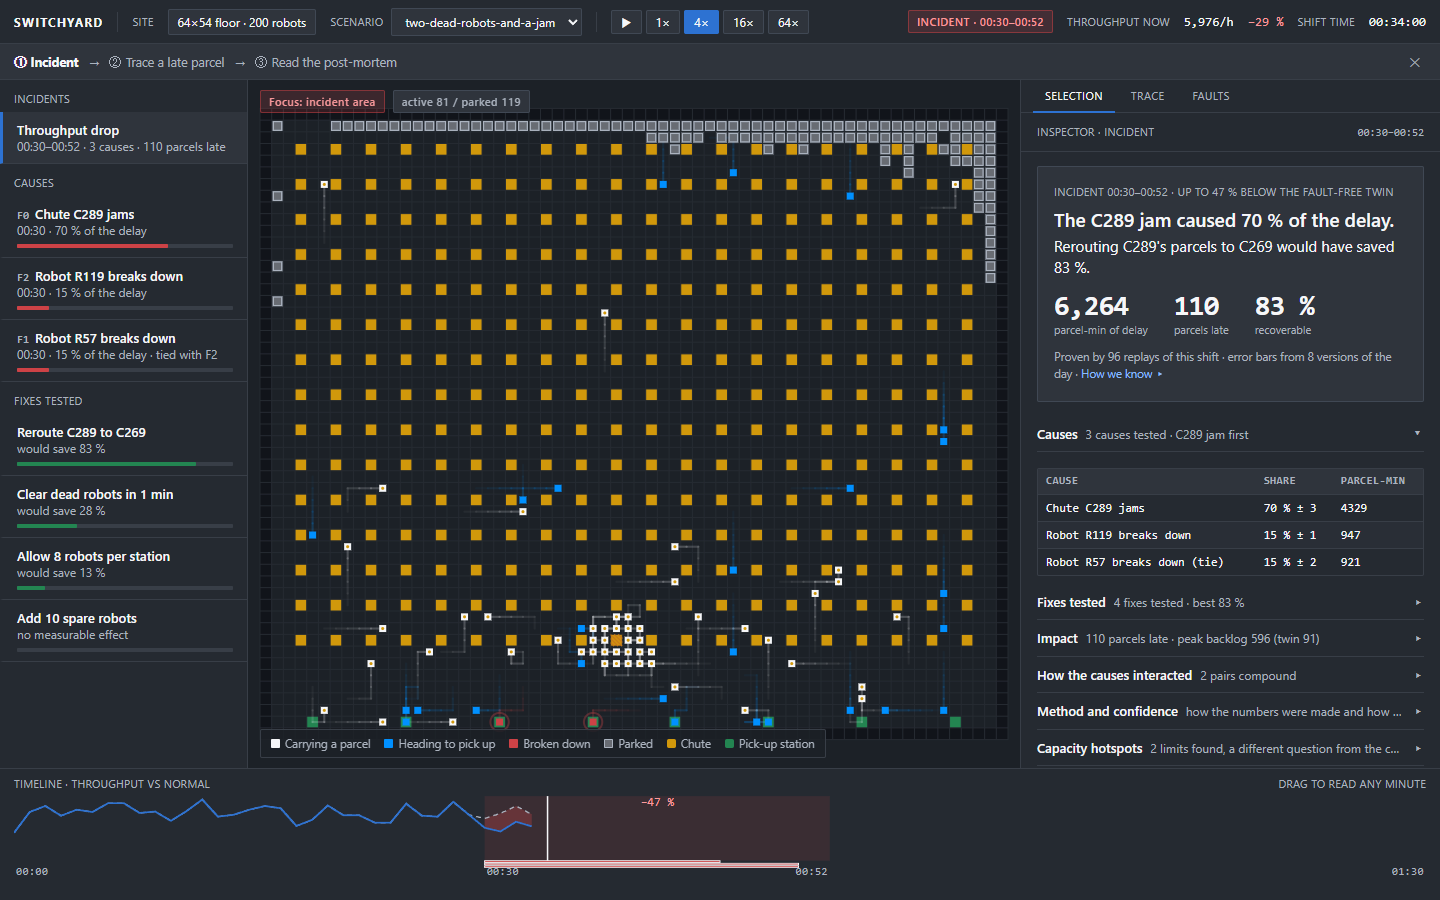
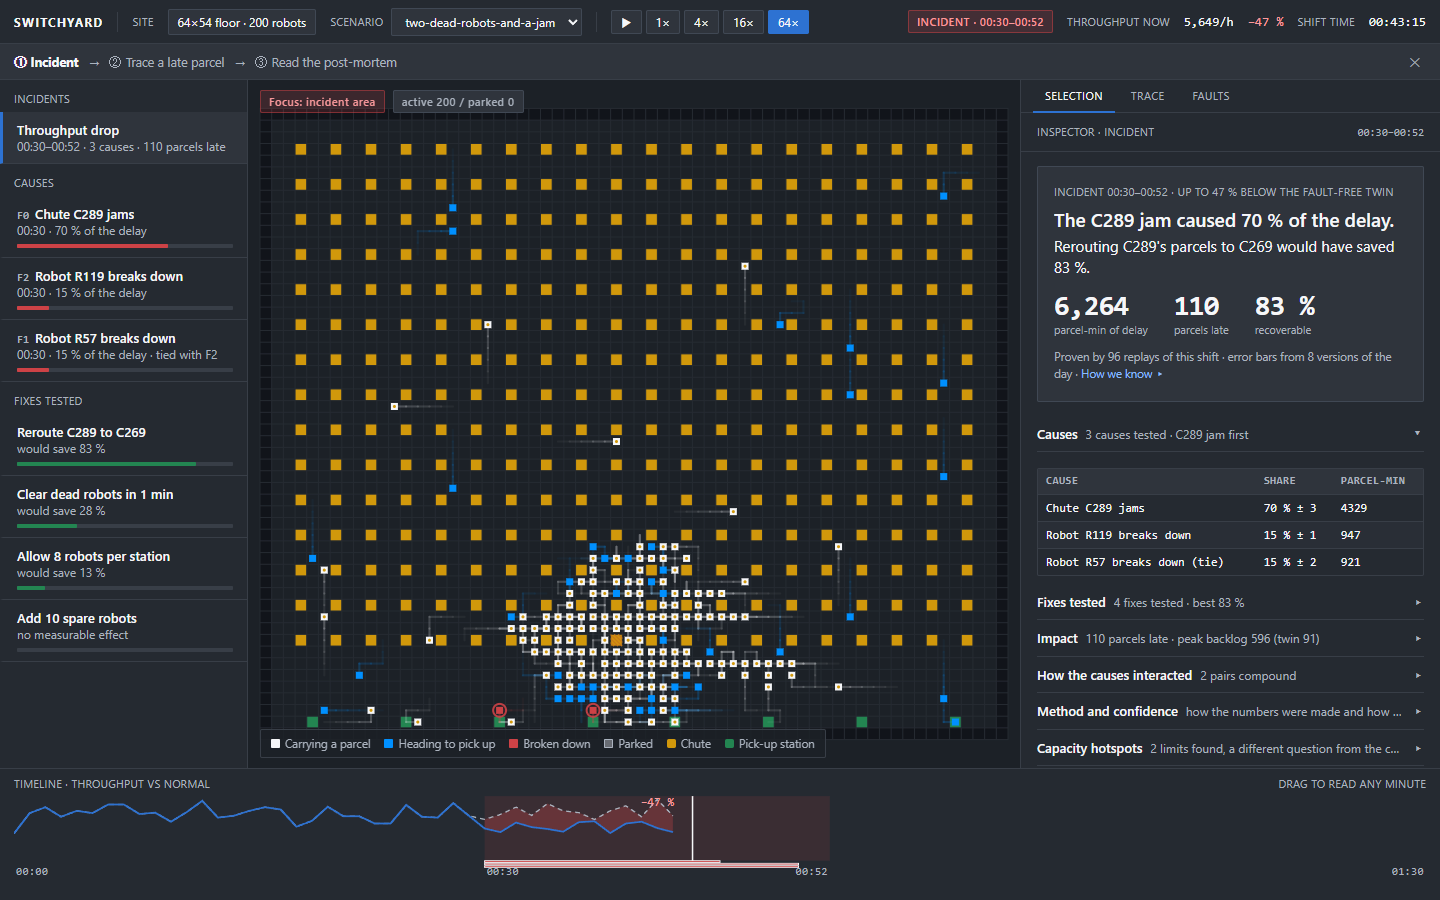
fix: pause the guided run at the report's worst minute so chip and card agree (review finding 2 on #48)
Also 64x after the jam moment: the run now takes about 22 s end to end.

diff --git a/viewer/src/ui/console/guidedRun.ts b/viewer/src/ui/console/guidedRun.ts
@@ -1,7 +1,7 @@
 /** Pure logic for the first-run guided sequence: how fast to play, and when the incident is at its deepest. */
 import type { MetricsSeries } from "../../data/types";
 
-export type GuideSpeed = 1 | 4 | 16;
+export type GuideSpeed = 1 | 4 | 64;
 
 /** Ticks of lead-in the run is fast-forwarded to before the incident starts. */
 export const LEAD_IN_TICKS = 30;
@@ -13,37 +13,23 @@ export function jumpTarget(incidentStartMin: number, ticksPerMinute: number): nu
 
 /**
  * Speed by sim tick, after the jump. 4x into the incident, 1x for its first 10 ticks (5 s) so the jam and
- * the failures are seen happening, then 16x down to the deepest point (real time would take minutes).
+ * the failures are seen happening, then 64x down to the deepest point (real time would take minutes).
  */
 export function speedAt(tick: number, incidentStartMin: number, ticksPerMinute: number): GuideSpeed {
   const rel = tick - incidentStartMin * ticksPerMinute;
   if (rel < 0) return 4;
   if (rel < 10) return 1;
-  return 16;
+  return 64;
 }
 
 /**
- * The shift minute with the largest loss against the fault-free twin, once the series shows the loss
- * easing again (so it is known to be the deepest), else null. Only finished minutes count; the last entry
- * is still in progress.
+ * True once the latest finished minute is at least as far below the fault-free twin as the report's
+ * worst minute (`dipPct`, whole %), so the top-bar chip and the incident card quote the same figure.
  */
-export function deepestMinute(series: MetricsSeries, incidentStartMin: number): number | null {
-  const twin = series.twin;
-  if (!twin) return null;
-  let best: { minute: number; delta: number } | null = null;
-  let eased = false;
-  for (let i = 0; i < series.delivered.length - 1; i++) {
-    const minute = series.startMinute + i;
-    const a = series.delivered[i];
-    const t = twin[i];
-    if (minute < incidentStartMin || a === undefined || t === undefined) continue;
-    const delta = a - t;
-    if (best === null || delta < best.delta) {
-      best = { minute, delta };
-      eased = false;
-    } else if (delta > best.delta) {
-      eased = true;
-    }
-  }
-  return best !== null && best.delta < 0 && eased ? best.minute : null;
+export function reachedDip(series: MetricsSeries, dipPct: number): boolean {
+  const i = series.delivered.length - 2; // the last entry is the minute still in progress
+  const twin = series.twin?.[i];
+  const actual = series.delivered[i];
+  if (i < 0 || twin === undefined || actual === undefined || twin <= 0) return false;
+  return Math.round((1 - actual / twin) * 100) >= dipPct;
 }

diff --git a/viewer/src/ui/console/guidedRun.test.ts b/viewer/src/ui/console/guidedRun.test.ts
@@ -1,29 +1,24 @@
 import { describe, expect, it } from "vitest";
-import { deepestMinute, jumpTarget, speedAt } from "./guidedRun";
+import { jumpTarget, reachedDip, speedAt } from "./guidedRun";
 import type { MetricsSeries } from "../../data/types";
 
 const T = 120;
 const series = (delivered: number[], twin: number[], startMinute = 28): MetricsSeries => ({ ticksPerMinute: T, startMinute, delivered, twin, faults: [] });
 
 describe("speedAt and jumpTarget", () => {
-  it("jumps to just before the incident, then 4x, 1x at the jam, 16x", () => {
+  it("jumps to just before the incident, then 4x, 1x at the jam, 64x", () => {
     expect(jumpTarget(30, T)).toBe(30 * T - 30);
     expect(speedAt(30 * T - 30, 30, T)).toBe(4);
     expect(speedAt(30 * T + 5, 30, T)).toBe(1);
-    expect(speedAt(30 * T + 10, 30, T)).toBe(16);
+    expect(speedAt(30 * T + 10, 30, T)).toBe(64);
   });
 });
 
-describe("deepestMinute", () => {
-  it("is null without a twin or before the loss eases", () => {
-    expect(deepestMinute({ ...series([100, 100, 90, 60, 10], [100, 100, 100, 100, 100]), twin: undefined }, 30)).toBeNull();
-    expect(deepestMinute(series([100, 100, 90, 60, 10], [100, 100, 100, 100, 100]), 30)).toBeNull();
-  });
-  it("finds the worst finished minute once a later minute is better", () => {
-    // minutes 28..33; 33 is still in progress
-    expect(deepestMinute(series([100, 100, 90, 50, 70, 5], [100, 100, 100, 100, 100, 100]), 30)).toBe(31);
-  });
-  it("ignores minutes before the incident and a run with no loss", () => {
-    expect(deepestMinute(series([50, 60, 100, 100, 100], [100, 100, 100, 100, 100]), 30)).toBeNull();
+describe("reachedDip", () => {
+  it("is false without a twin and until the latest finished minute is as deep as the report's dip", () => {
+    expect(reachedDip({ ...series([100, 90, 5], [100, 100, 100]), twin: undefined }, 47)).toBe(false);
+    expect(reachedDip(series([100, 71, 5], [100, 100, 100]), 47)).toBe(false);
+    expect(reachedDip(series([100, 53, 5], [100, 100, 100]), 47)).toBe(true);
+    expect(reachedDip(series([100, 40, 5], [100, 100, 100]), 47)).toBe(true);
   });
 });

diff --git a/viewer/src/main.ts b/viewer/src/main.ts
@@ -27,7 +27,7 @@ import { focusRect } from "./ui/console/floorFocus";
 import type { ObjectId } from "./ui/console/types";
 import { TickPacer } from "./sim/pacer";
 import { GuideStrip } from "./ui/console/GuideStrip";
-import { deepestMinute, jumpTarget, speedAt } from "./ui/console/guidedRun";
+import { jumpTarget, reachedDip, speedAt } from "./ui/console/guidedRun";
 
 applyThemeVars();
 
@@ -224,17 +224,6 @@ async function main(): Promise<void> {
   };
   const refreshSide = () => {
     refreshTimeline();
-    if (guidedRun && data?.incident) {
-      const series = services.metrics.series();
-      if (deepestMinute(series, data.incident.startMin) !== null) {
-        // The deepest point has passed: stop here and show the incident card.
-        guidedRun = false;
-        playing = false;
-        pacer.reset();
-        showPlaying();
-        select("inc");
-      }
-    }
     const dip = dipVsTwin(services.metrics.series());
     dipEl.textContent = dip === null ? "" : `${dip < 0 ? "−" : "+"}${Math.abs(dip)} %`;
     void faultPanel.refresh();
@@ -307,6 +296,18 @@ async function main(): Promise<void> {
   let busy = false;
   let jumped = false;
   async function frame(): Promise<void> {
+    if (guidedRun && data?.incident) {
+      const { dipPct, endMin } = data.incident;
+      if ((dipPct !== null && reachedDip(services.metrics.series(), dipPct)) || nowTick >= endMin * theme.ticksPerMinute) {
+        // The report's worst minute is in: stop here, refresh the chip, and show the incident card.
+        guidedRun = false;
+        playing = false;
+        pacer.reset();
+        showPlaying();
+        refreshSide();
+        select("inc");
+      }
+    }
     if (guidedRun && !jumped && data?.incident) {
       // Fast-forward in the worker without rendering, to just before the incident.
       jumped = true;
